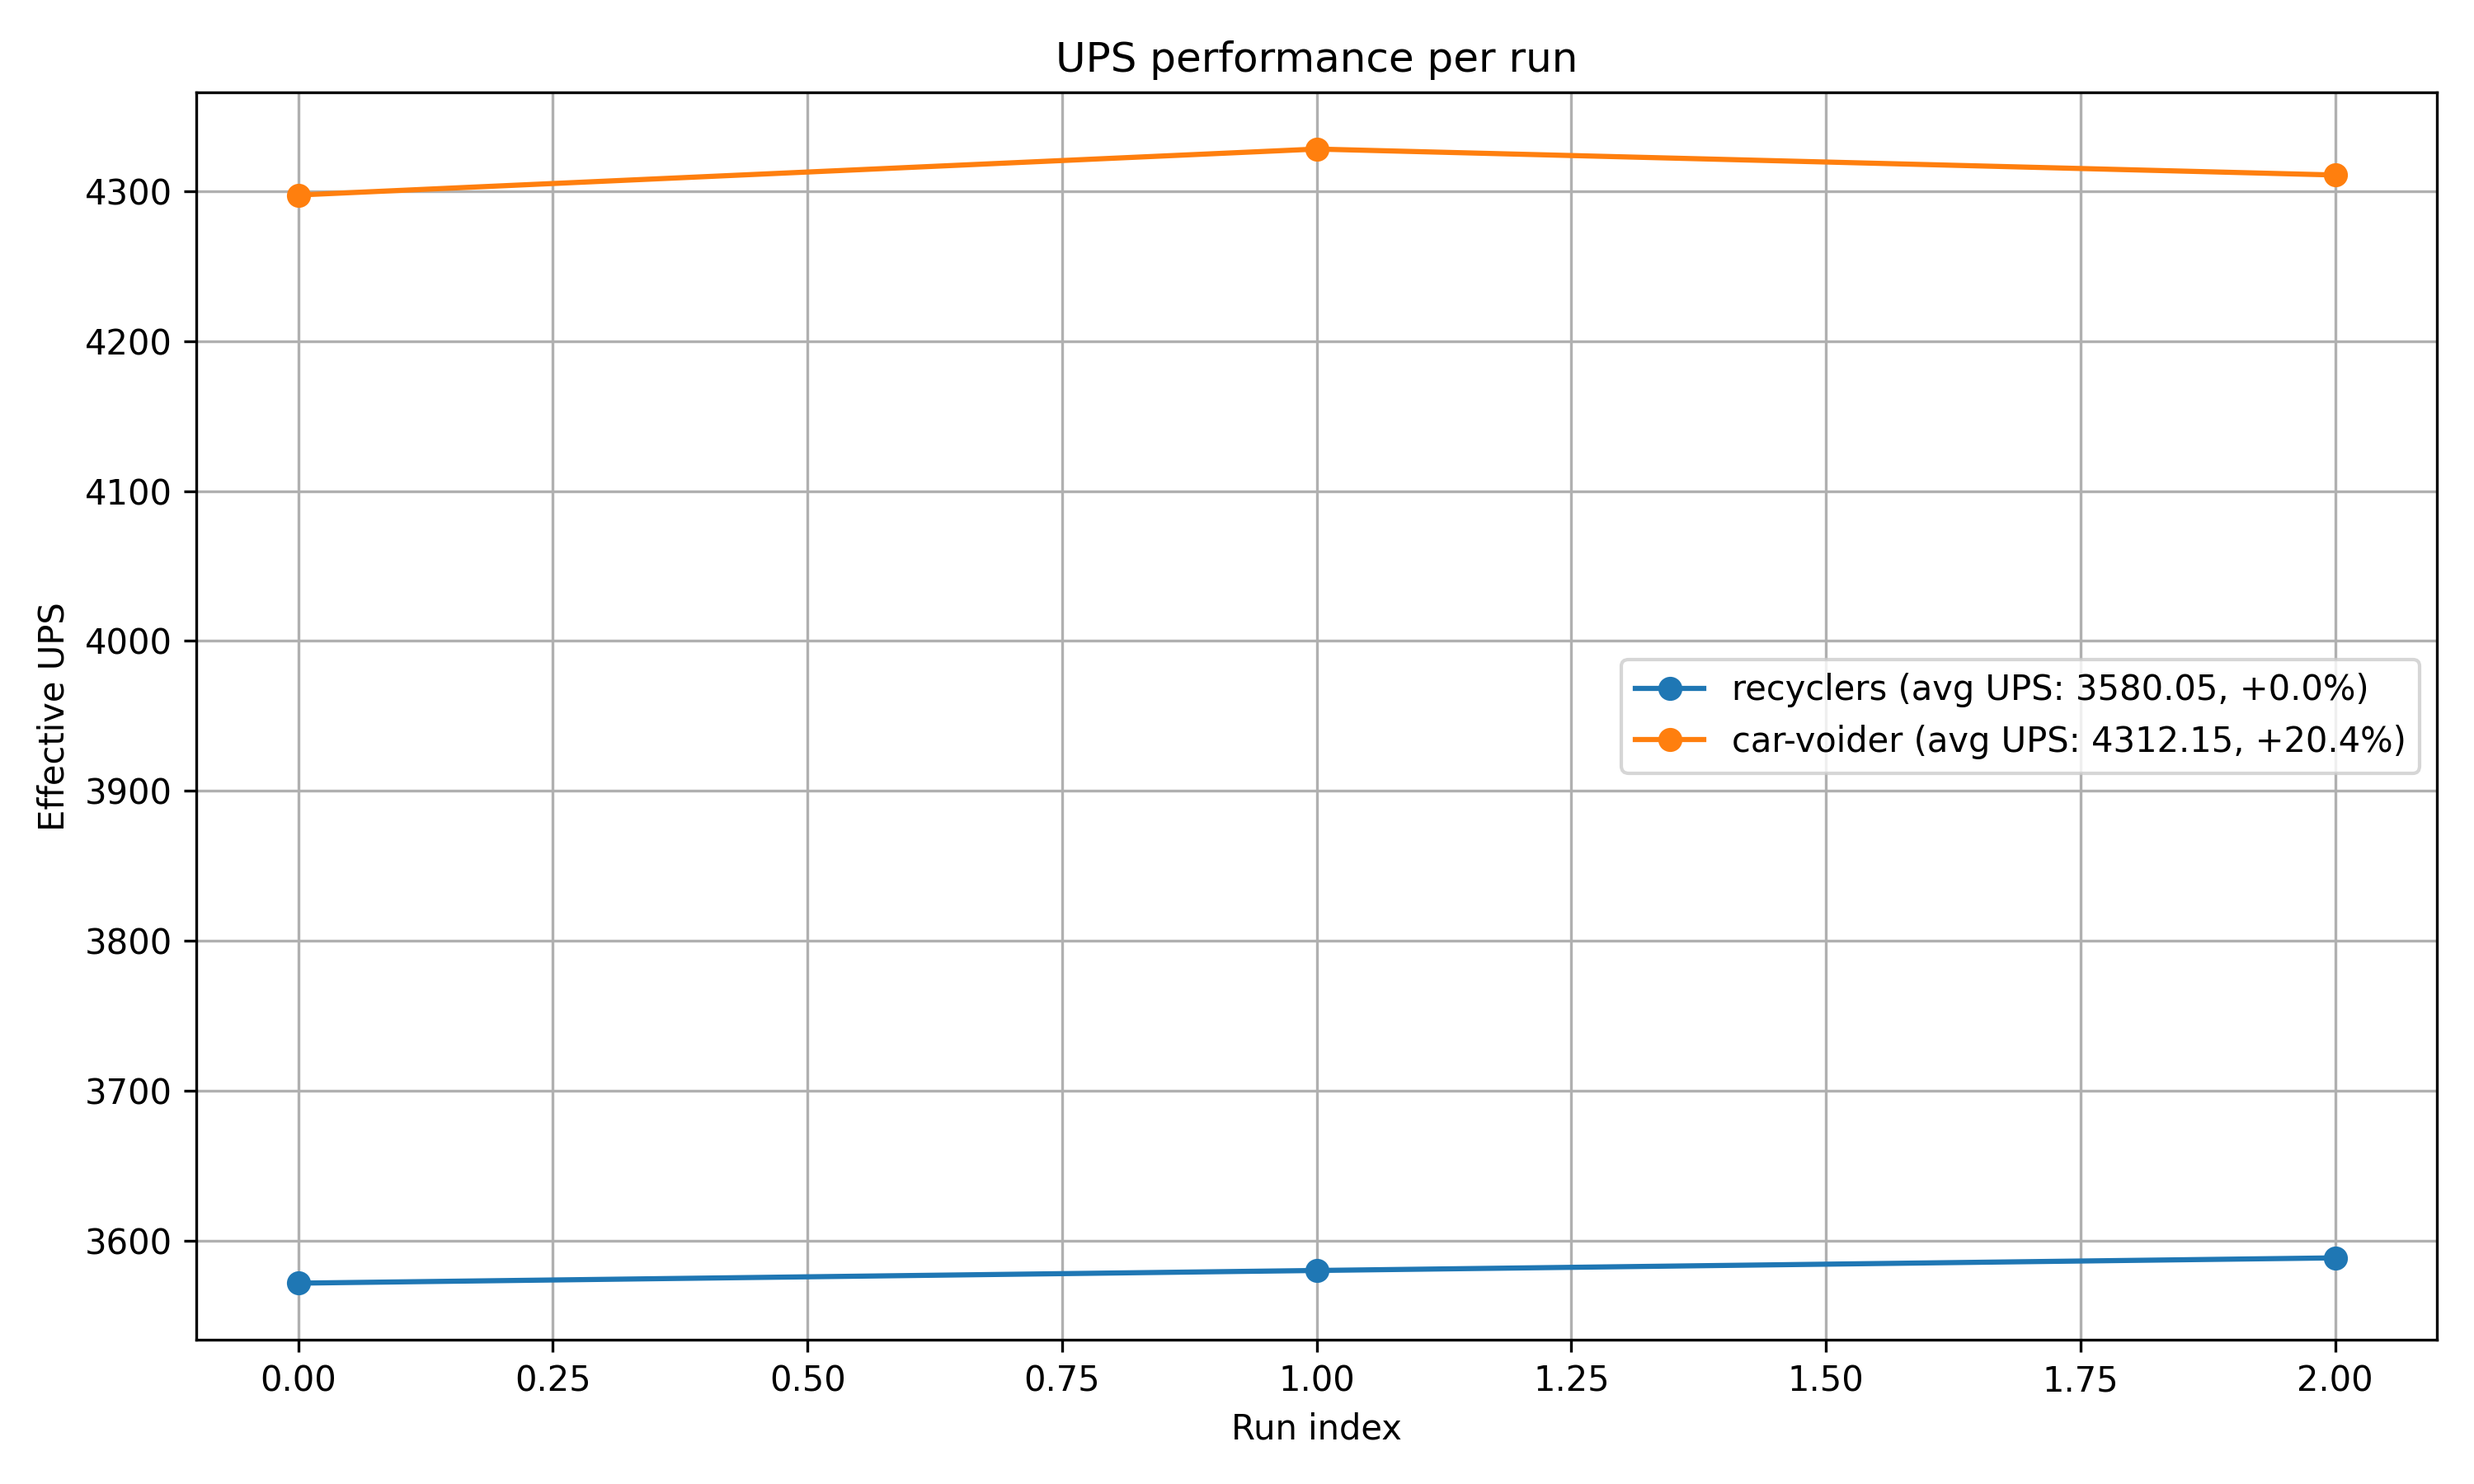
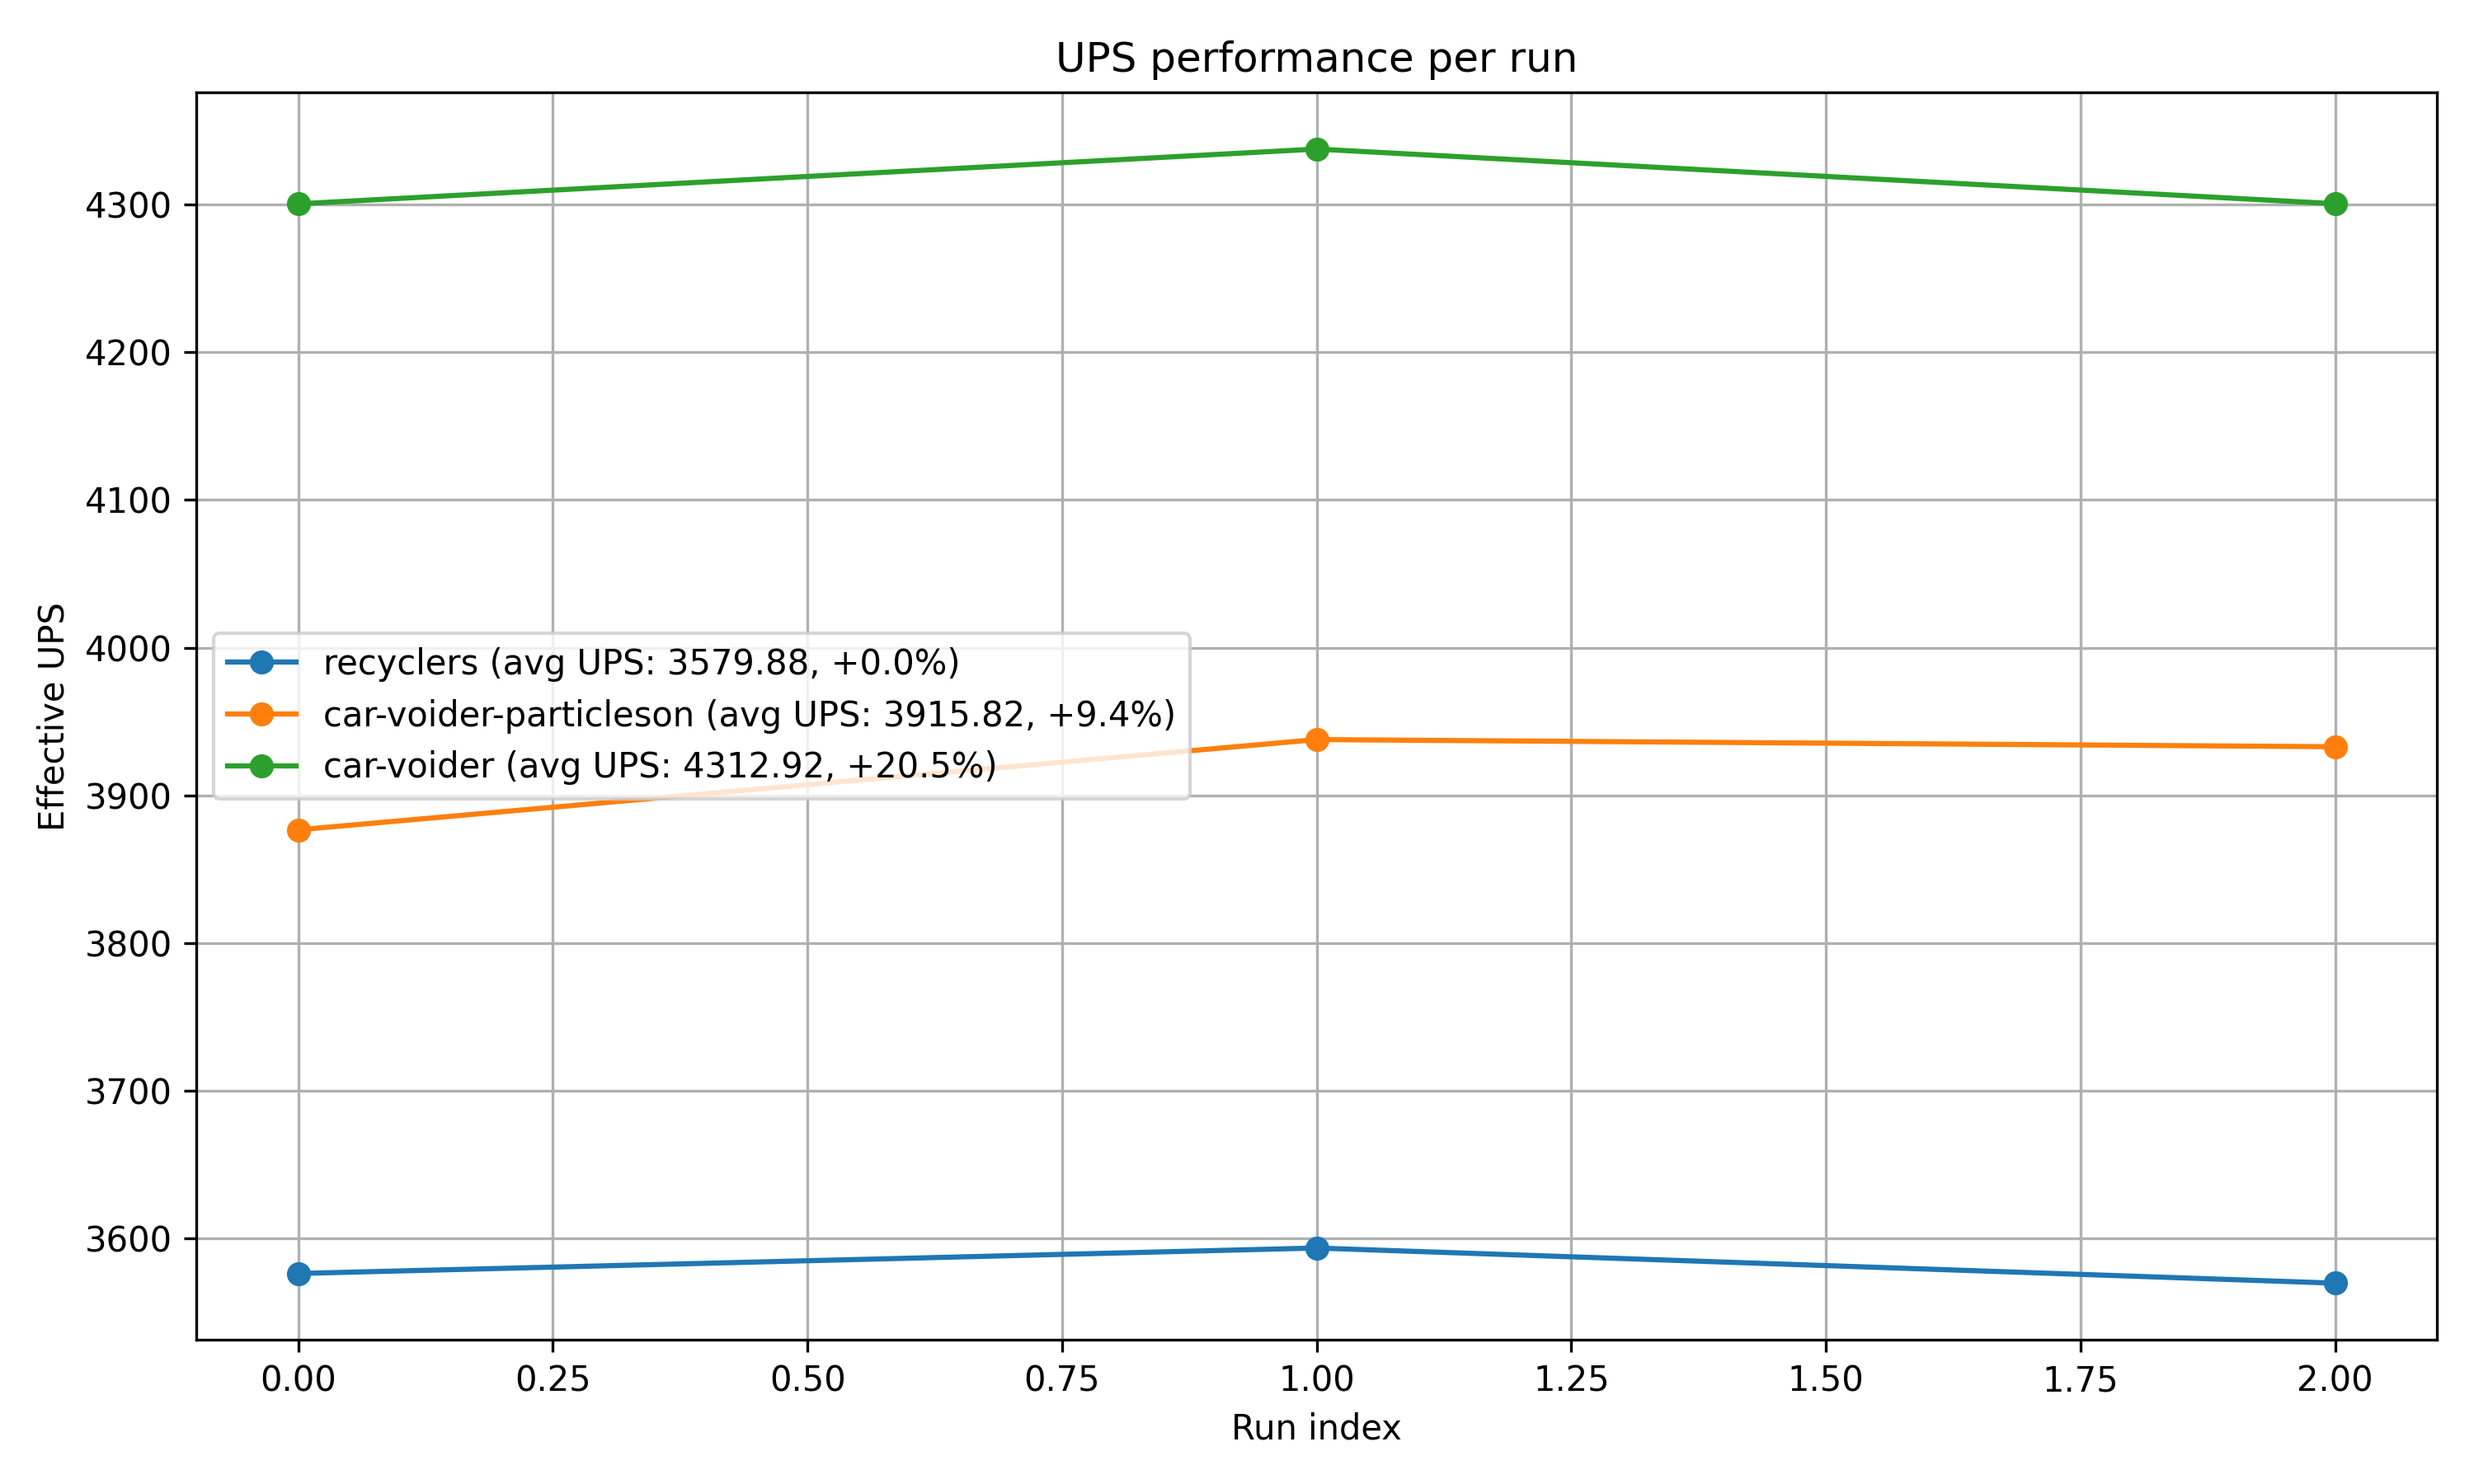
compare without mods

diff --git a/vulcanus/results.md b/vulcanus/results.md
@@ -17,7 +17,8 @@
 
 | Save | Avg (ms) | Min (ms) | Max (ms) | UPS | Execution Time (ms) | % Difference from base |
 |------|----------|----------|----------|-----|---------------------|------------------------|
-| recyclers | 0.279 | 0.200 | 1.395 | 3580 | 9050 | 0.00% |
-| car-voider | 0.232 | 0.120 | 0.978 | **4312** | 7513 | 20.45% |
+| recyclers | 0.279 | 0.201 | 1.370 | 3579 | 9050 | 0.00% |
+| car-voider-particleson | 0.255 | 0.149 | 0.965 | 3915 | 8274 | 9.38% |
+| car-voider | 0.232 | 0.128 | 1.022 | **4312** | 7512 | 20.48% |
 
 ## Conclusion

diff --git a/vulcanus/README.md b/vulcanus/README.md
@@ -19,6 +19,12 @@ comparing to abuc's old ore recyclers tuned to 7k for tungsten.
 ### Benchmark Results
 ![ups breakdown](./results.png) + [report](./results.md).
 
-breakdowns;
+### breakdowns
+recycler setup:
 ![recycler breakdown](recycler-7k-breakdown.png)
+
+trains without particles (mods on)
 ![train breakdown](train-voider-breakdown.png)
+
+trains with particles (no mods)
+![train breakdown](train-voider-particles-breakdown.png)
